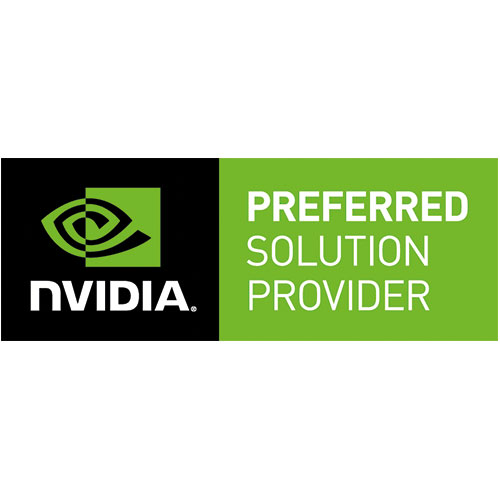
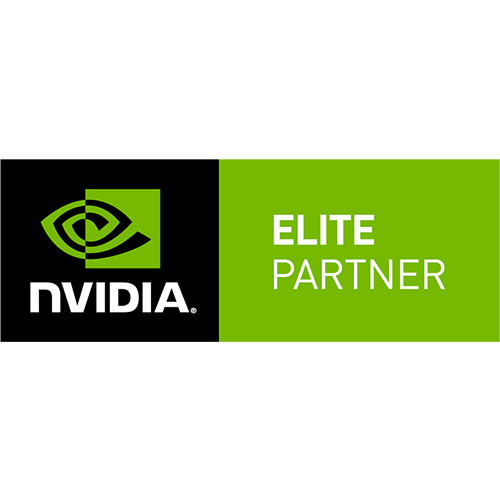
partner logolarını güncelle

Changed region(s): [[0.0, 0.3, 1.0, 0.69], [0.06, 0.36, 0.39, 0.63], [0.0, 0.66, 0.03, 0.69]]

diff --git a/site/dgxstation.html b/site/dgxstation.html
@@ -14,7 +14,7 @@
 							<div class="separator object-non-visible mt-10" data-animation-effect="fadeIn" data-effect-delay="150"></div>
 							<p class="text-center object-non-visible" data-animation-effect="fadeIn" data-effect-delay="200">Personal AI Supercomputer</p>
 						</div>
-						<a class="link-default" target="_blank" href="http://www.nvidia.com.tr/object/where-to-buy-dgx1-tr.html"><img src="images/NVIDIA_PreferredSolutionProvider.png" class="nvidia-partner visible-lg visible-md"></a>
+						<a class="link-default" target="_blank" href="http://www.nvidia.com.tr/object/where-to-buy-dgx1-tr.html"><img src="images/NVIDIA_ElitePartner.png" class="nvidia-partner visible-lg visible-md"></a>
 					</div>
 				</div>
 			</div>
@@ -132,7 +132,7 @@
 								</tr>
 							</table>
 							<div class="hidden-sm">
-								<a class="link-default" target="_blank" href="http://www.nvidia.com.tr/object/where-to-buy-dgx1-tr.html"><img src="images/NVIDIA_PreferredSolutionProvider.png" alt="NVIDIA Preferred Solution Provider"></a>
+								<a class="link-default" target="_blank" href="http://www.nvidia.com.tr/object/where-to-buy-dgx1-tr.html"><img src="images/NVIDIA_ElitePartner.png" alt="NVIDIA Preferred Solution Provider"></a>
 									<ul class="list-unstyled space-top">
 								<div class="separator-2"></div>
 										<li><a class="link-default" target="_blank" href="https://www.nvidia.com/content/dam/en-zz/Solutions/Data-Center/dgx-station/dgx-station-data-science-supercomputer-datasheet-10232017.pdf">DGX Station Datasheet (PDF)</a></li>
@@ -143,7 +143,7 @@
 							</div>
 							<div class="row visible-sm">
 								<div class="col-sm-6">
-									<a class="link-default" target="_blank" href="http://www.nvidia.com.tr/object/where-to-buy-dgx1-tr.html"><img src="images/NVIDIA_PreferredSolutionProvider.png" alt="NVIDIA Preferred Solution Provider"></a>
+									<a class="link-default" target="_blank" href="http://www.nvidia.com.tr/object/where-to-buy-dgx1-tr.html"><img src="images/NVIDIA_ElitePartner.png" alt="NVIDIA Preferred Solution Provider"></a>
 								</div>
 								<div class="col-sm-6">
 									<p><em>CompecTA is the official <a class="link-default" target="_blank" href="http://www.nvidia.com.tr/object/where-to-buy-dgx1-tr.html">NPN Accelerated Computing Partner</a> in Turkey.</em></p>

diff --git a/site/dgx-1.html b/site/dgx-1.html
@@ -18,7 +18,7 @@
 								<a href="renting.html" class="btn btn-default btn-hvr hvr-shutter-out-horizontal margin-clear mv-10"><span class="button-badge"><span class="badge badge-red">NEW</span></span>RENT NOW</a>
 							</div>
 						</div>
-						<a class="link-default" target="_blank" href="http://www.nvidia.com.tr/object/where-to-buy-dgx1-tr.html"><img src="images/NVIDIA_PreferredSolutionProvider.png" class="nvidia-partner visible-lg visible-md"></a>
+						<a class="link-default" target="_blank" href="http://www.nvidia.com.tr/object/where-to-buy-dgx1-tr.html"><img src="images/NVIDIA_ElitePartner.png" class="nvidia-partner visible-lg visible-md"></a>
 					</div>
 				</div>
 			</div>
@@ -122,12 +122,12 @@
 							</table>
 							<div class="hidden-sm">
 								<p class="small">NVIDIA Education Pricing available. Please contact for eligibility requirements and legal terms and conditions.</p>
-								<a class="link-default" target="_blank" href="http://www.nvidia.com.tr/object/where-to-buy-dgx1-tr.html"><img src="images/NVIDIA_PreferredSolutionProvider.png" alt="NVIDIA Preferred Solution Provider"></a>
+								<a class="link-default" target="_blank" href="http://www.nvidia.com.tr/object/where-to-buy-dgx1-tr.html"><img src="images/NVIDIA_ElitePartner.png" alt="NVIDIA Preferred Solution Provider"></a>
 								<p class="space-top"><em>CompecTA is the official <a class="link-default" target="_blank" href="http://www.nvidia.com.tr/object/where-to-buy-dgx1-tr.html">NPN Accelerated Computing Partner</a> in Turkey.</em></p>
 							</div>
 							<div class="row visible-sm">
 								<div class="col-sm-6">
-									<a class="link-default" target="_blank" href="http://www.nvidia.com.tr/object/where-to-buy-dgx1-tr.html"><img src="images/NVIDIA_PreferredSolutionProvider.png" alt="NVIDIA Preferred Solution Provider"></a>
+									<a class="link-default" target="_blank" href="http://www.nvidia.com.tr/object/where-to-buy-dgx1-tr.html"><img src="images/NVIDIA_ElitePartner.png" alt="NVIDIA Preferred Solution Provider"></a>
 								</div>
 								<div class="col-sm-6">
 									<p>NVIDIA Education Pricing available. Please contact for eligibility requirements and legal terms and conditions.</p>

diff --git a/site/index.html b/site/index.html
@@ -61,7 +61,7 @@
 											data-start="1600"
 											data-easing="easeOutQuad"
 											data-endspeed="600">
-												<a target="_blank" href="http://www.nvidia.com.tr/object/where-to-buy-dgx1-tr.html"><img src="images/NVIDIA_PreferredSolutionProvider.png" class="slide-nvidia-partner visible-lg visible-md"></a>
+												<a target="_blank" href="http://www.nvidia.com.tr/object/where-to-buy-dgx1-tr.html"><img src="images/NVIDIA_ElitePartner.png" class="slide-nvidia-partner visible-lg visible-md"></a>
 										</div>
 										<!-- LAYER NR. 5 -->
 										<div class="tp-caption sfb fadeout small_white hidden-xs"
@@ -71,7 +71,7 @@
 											data-start="1600"
 											data-easing="easeOutQuad"
 											data-endspeed="600">
-												<a target="_blank" href="http://www.nvidia.com.tr/object/where-to-buy-dgx1-tr.html"><small>CompecTA is the only official NPN<br> Accelerated Computing Partner in Turkey.</small></a>
+												<a target="_blank" href="http://www.nvidia.com.tr/object/where-to-buy-dgx1-tr.html"><small>CompecTA is the only Elite <br> Partner in Turkey.</small></a>
 										</div>
 									</li>
 									<!-- slide 8 end -->
@@ -553,7 +553,7 @@
 									<h4 class="hidden-md">NVIDIA DGX-1&trade;</h4>
 									<h5 class="visible-md">NVIDIA DGX-1&trade;</h5>
 									<div class="separator"></div>
-									<p>NVIDIA DGX-1&trade; provided by CompecTA has over 170 TFLOPS of performance for Artificial Intelligence workloads.</p>
+									<p>NVIDIA DGX-1&trade; provided by CompecTA has over 1000 TFLOPS of AI performance for Artificial Intelligence and Deep Learning workloads.</p>
 									<a href="dgx-1.html" class="btn btn-default btn-sm btn-hvr hvr-shutter-out-horizontal margin-clear">Read More<i class="fa fa-arrow-right pl-10"></i></a>												
 								</div>
 							</div>

diff --git a/site/supernovax.html b/site/supernovax.html
@@ -40,14 +40,14 @@
 							<p>CompecTA SuperNova Engine X&trade; comes with an <strong>Enterprise Level Support</strong> package from HPC experts with over 20 years of experience in the field.</p>
 							<p>We will assist you with any problem you may encounter with your system.</p>
 							<br>
-							<img class="nv-preferred hidden-xs" src="images/NVIDIA_PreferredSolutionProvider.png" alt="NVIDIA Preferred Solution Provider">
+							<img class="nv-preferred hidden-xs" src="images/NVIDIA_ElitePartner.png" alt="NVIDIA Preferred Solution Provider">
 						</div>
 						<div class="col-md-4">
 							<h3>Free CPU Time</h3>
 							<div class="separator-2"></div>
 							<p>CompecTA SuperNova Engine X&trade; comes with <strong>100 thousands hours of CPU Time</strong> on CompecTA's in-house HPC Cluster service called <strong>FeynmanGrid&trade;</strong>. </p>
 							<p>Use this opportunity to gain experience on using HPC Clusters or performance test any application or to test some new code/application.</p>
-							<img class="nv-preferred visible-xs" src="images/NVIDIA_PreferredSolutionProvider.png" alt="NVIDIA Preferred Solution Provider">
+							<img class="nv-preferred visible-xs" src="images/NVIDIA_ElitePartner.png" alt="NVIDIA Preferred Solution Provider">
 							<div class="space-top visible-xs"></div>
 							<img class="frameworks" src="images/frameworks.jpg" alt="DL Framewroks">
 						</div>

diff --git a/site/supernova.html b/site/supernova.html
@@ -40,14 +40,14 @@
 							<p>CompecTA SuperNova Engine&trade; comes with an <strong>Enterprise Level Support</strong> package from HPC experts with over 20 years of experience in the field.</p>
 							<p>We will assist you with any problem you may encounter with your system.</p>
 							<br>
-							<img class="nv-preferred hidden-xs" src="images/NVIDIA_PreferredSolutionProvider.png" alt="NVIDIA Preferred Solution Provider">
+							<img class="nv-preferred hidden-xs" src="images/NVIDIA_ElitePartner.png" alt="NVIDIA Preferred Solution Provider">
 						</div>
 						<div class="col-md-4">
 							<h3>Free CPU Time</h3>
 							<div class="separator-2"></div>
 							<p>CompecTA SuperNova Engine&trade; comes with <strong>100 thousands hours of CPU Time</strong> on CompecTA's in-house HPC Cluster service called <strong>FeynmanGrid&trade;</strong>. </p>
 							<p>Use this opportunity to gain experience on using HPC Clusters or performance test any application or to test some new code/application.</p>
-							<img class="nv-preferred visible-xs" src="images/NVIDIA_PreferredSolutionProvider.png" alt="NVIDIA Preferred Solution Provider">
+							<img class="nv-preferred visible-xs" src="images/NVIDIA_ElitePartner.png" alt="NVIDIA Preferred Solution Provider">
 							<div class="space-top visible-xs"></div>
 							<img class="frameworks" src="images/frameworks.jpg" alt="DL Framewroks">
 						</div>

diff --git a/site/novamini.html b/site/novamini.html
@@ -40,14 +40,14 @@
 							<p>CompecTA Nova Engine Mini&trade; comes with an <strong>Enterprise Level Support</strong> package from HPC experts with over 20 years of experience in the field.</p>
 							<p>We will assist you with any problem you may encounter with your system.</p>
 							<br>
-							<img class="nv-preferred hidden-xs" src="images/NVIDIA_PreferredSolutionProvider.png" alt="NVIDIA Preferred Solution Provider">
+							<img class="nv-preferred hidden-xs" src="images/NVIDIA_ElitePartner.png" alt="NVIDIA Preferred Solution Provider">
 						</div>
 						<div class="col-md-4">
 							<h3>Free CPU Time</h3>
 							<div class="separator-2"></div>
 							<p>CompecTA Nova Engine Mini&trade; comes with <strong>50 thousands hours of CPU Time</strong> on CompecTA's in-house HPC Cluster service called <strong>FeynmanGrid&trade;</strong>. </p>
 							<p>Use this opportunity to gain experience on using HPC Clusters or performance test any application or to test some new code/application.</p>
-							<img class="nv-preferred visible-xs" src="images/NVIDIA_PreferredSolutionProvider.png" alt="NVIDIA Preferred Solution Provider">
+							<img class="nv-preferred visible-xs" src="images/NVIDIA_ElitePartner.png" alt="NVIDIA Preferred Solution Provider">
 							<div class="space-top visible-xs"></div>
 							<img class="frameworks" src="images/frameworks.jpg" alt="DL Framewroks">
 						</div>

diff --git a/site/nova.html b/site/nova.html
@@ -40,14 +40,14 @@
 							<p>CompecTA Nova Engine&trade; comes with an <strong>Enterprise Level Support</strong> package from HPC experts with over 20 years of experience in the field.</p>
 							<p>We will assist you with any problem you may encounter with your system.</p>
 							<br>
-							<img class="nv-preferred hidden-xs" src="images/NVIDIA_PreferredSolutionProvider.png" alt="NVIDIA Preferred Solution Provider">
+							<img class="nv-preferred hidden-xs" src="images/NVIDIA_ElitePartner.png" alt="NVIDIA Preferred Solution Provider">
 						</div>
 						<div class="col-md-4">
 							<h3>Free CPU Time</h3>
 							<div class="separator-2"></div>
 							<p>CompecTA Nova Engine&trade; comes with <strong>100 thousands hours of CPU Time</strong> on CompecTA's in-house HPC Cluster service called <strong>FeynmanGrid&trade;</strong>. </p>
 							<p>Use this opportunity to gain experience on using HPC Clusters or performance test any application or to test some new code/application.</p>
-							<img class="nv-preferred visible-xs" src="images/NVIDIA_PreferredSolutionProvider.png" alt="NVIDIA Preferred Solution Provider">
+							<img class="nv-preferred visible-xs" src="images/NVIDIA_ElitePartner.png" alt="NVIDIA Preferred Solution Provider">
 							<div class="space-top visible-xs"></div>
 							<img class="frameworks" src="images/frameworks.jpg" alt="DL Framewroks">
 						</div>

diff --git a/templates/base.html b/templates/base.html
@@ -298,7 +298,7 @@
 										<div class="client"><img class="partner-image" src="images/partners/microsoft.png" alt="Microsoft"></div>
 										<div class="client"><img class="partner-image" src="images/partners/supermicro.png" alt="Cisco"></div>
 										<div class="client"><img class="partner-image" src="images/partners/fujitsu.png" alt="Fujitsu"></div>
-										<div class="client"><img class="partner-image" src="images/partners/hp.png" alt="HP"></div>
+										<div class="client"><img class="partner-image" src="images/partners/hpe.png" alt="HP"></div>
 										<div class="client"><img class="partner-image" src="images/partners/ibm.png" alt="IBM"></div>
 										<div class="client"><img class="partner-image" src="images/partners/dell.png" alt="Dell"></div>
 										<div class="client"><img class="partner-image" src="images/partners/cisco.png" alt="Cisco"></div>

diff --git a/site/partners.html b/site/partners.html
@@ -61,7 +61,7 @@
 							<img class="thumbnail p15 margin-clear" alt="" src="images/partners/fujitsu.jpg">
 						</div>
 						<div class="col-xs-4 col-sm-2 col-md-2 mb-20">
-							<img class="thumbnail p15 margin-clear" alt="" src="images/partners/hp.jpg">
+							<img class="thumbnail p15 margin-clear" alt="" src="images/partners/hpe.jpg">
 						</div>
 						<div class="col-xs-4 col-sm-2 col-md-2 mb-20 col-md-offset-1">
 							<img class="thumbnail p15 margin-clear" alt="" src="images/partners/ibm.jpg">
